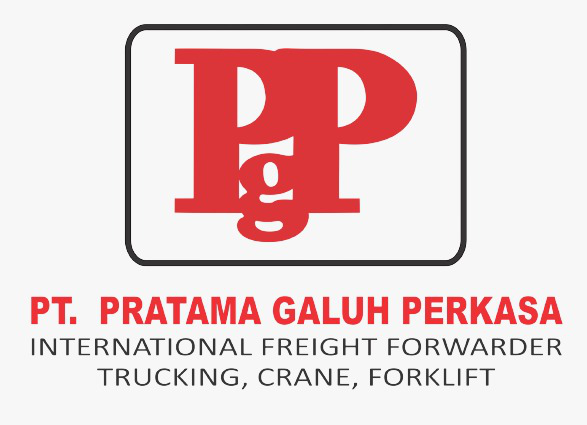
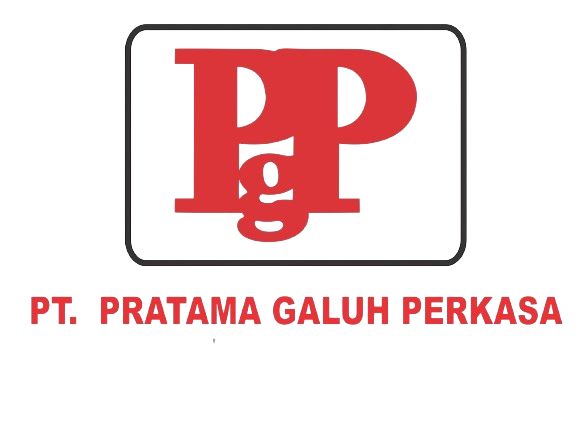
Penyesuaian Halaman Login dengan Desain

diff --git a/PTI Website/style.css b/PTI Website/style.css
@@ -17,6 +17,13 @@ body {
     min-height: 100vh;
 }
 
+.logo {
+    display: block;
+    width: 150px;
+    height: auto;
+    margin: 0 auto 20px;
+}
+
 /* Gaya judul */
 h2 {
     text-align: center;
@@ -33,8 +40,7 @@ h2 {
 
 /* Gaya form */
 .form {
-    width: 100%;
-    max-width: 500px; /* Mengatur lebar maksimum form */
+    width: 350px;
     padding: 30px;
     background-color: #CACDED;
     border-radius: 10px;
@@ -48,29 +54,42 @@ form input[type="text"] {
     width: 100%;
     padding: 12px;
     margin-top: 15px;
-    border: 1px solid #1a237e;
-    border-radius: 25px;
-    font-size: 16px;
+    border: 1px solid #AA9B9B;
+    border-radius: 25px;    
+    font-size: 12px;
     box-sizing: border-box;
+    background-color: transparent;
 }
 
 /* Gaya tombol submit */
 form input[type="submit"] {
     width: 100%;
+    max-width: 250px;
     padding: 12px;
     margin-top: 20px;
-    background-color: #1565c0;
+    background-color: #28293D;
     color: #ffffff;
     border: none;
-    border-radius: 25px;
+    border-radius: 15px;
     font-size: 16px;
+    font-weight: bold;
     cursor: pointer;
     transition: background-color 0.3s ease;
 }
 
 form input[type="submit"]:hover {
-    background-color: #0d47a1;
+    background-color: #35364f;
 }
+
+/* Gaya Label Cek Password */
+.form label[for="password"] {
+    display: inline-block;
+    margin-left: 10px;
+    font-size: 12px;
+    cursor: pointer;
+    color: #000000;
+}
+
 
 /* Gaya link pendaftaran */
 form p {

diff --git a/PTI Website/index.php b/PTI Website/index.php
@@ -51,18 +51,18 @@ if ($_SERVER["REQUEST_METHOD"] == "POST") {
 </head>
 
 <body>
+
 <div class="container">
+    <img src="pgp.png" alt="Logo" class="logo">
     <h2>Login</h2>
     <div class="form">
         <form method="POST" action="">
-            <input type="email" name="email" required placeholder="Email"><br>
-            <input type="password" name="password" id="password" required placeholder="Password"><br>
-            
-            <!-- Checkbox untuk menampilkan password -->
-            <label>
-                <input type="checkbox" onclick="togglePassword()"> Show Password
-            </label><br>
-            <input type="submit" value="Login">
+            <input type="email" name="email" required placeholder="Email..."><br>
+            <input type="password" name="password" id="password" required placeholder="Password..."><br><br>
+            <input type="checkbox" onclick="togglePassword()"><label for="password"> Show Password </label>
+            <br><br>
+            <div style="text-align: center"> <input type="submit" value="Login"></div>
+           
             <p>Don't have an account? <a href="register.php">Register</a></p>
         </form>
         <?php
